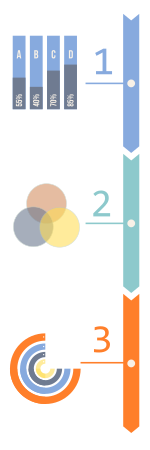
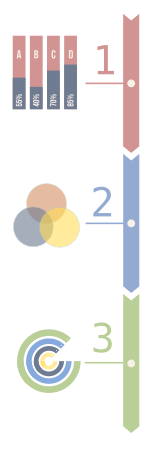
Plugin: Positioning: Flip initial/final test results on chart + change colors of illustration to use default palette - refs #3644

diff --git a/plugin/positioning/start_student.php b/plugin/positioning/start_student.php
@@ -42,9 +42,6 @@ if ($initialData) {
     if (empty($initialResults)) {
         $url = api_get_path(WEB_CODE_PATH).'exercise/overview.php?'.api_get_cidreq().'&exerciseId='.$exerciseId;
         $initialExerciseTitle = Display::url($initialExercise->get_formated_title(), $url);
-    } else {
-        $exercisesToRadar[] = $initialExercise;
-        $exercisesToRadarLabel[] = $plugin->get_lang('InitialTest');
     }
 }
 
@@ -83,6 +80,11 @@ if ($finalData) {
         $exercisesToRadar[] = $finalExercise;
         $exercisesToRadarLabel[] = $plugin->get_lang('FinalTest');
     }
+}
+// Set the initial results as second series to make sure it appears on top
+if (!empty($initialExercise)) {
+    $exercisesToRadar[] = $initialExercise;
+    $exercisesToRadarLabel[] = $plugin->get_lang('InitialTest');
 }
 
 $radars = $initialExercise->getRadarsFromUsers(
